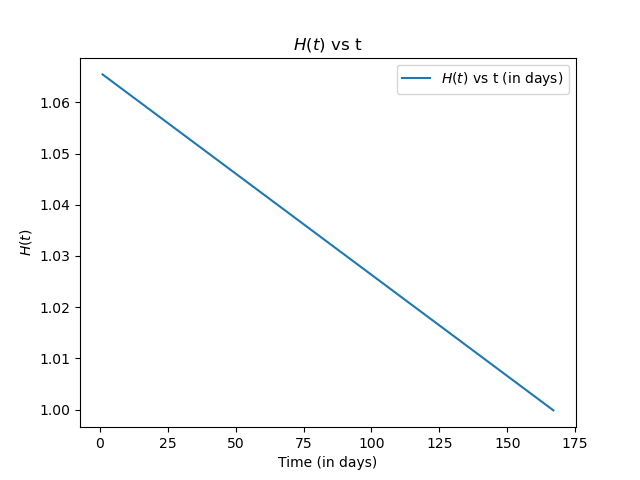
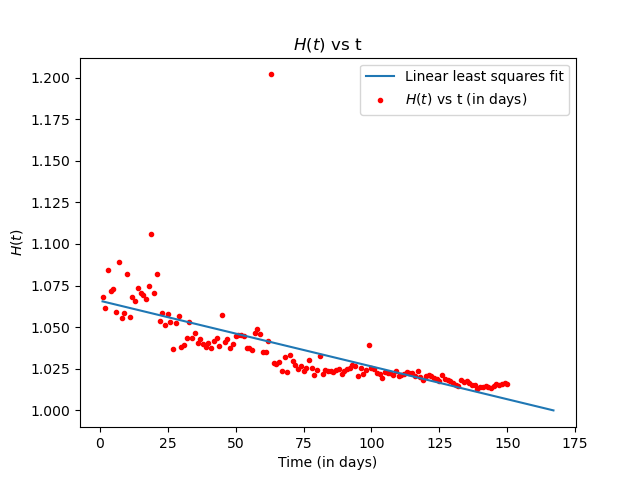
Updated task5 to plot both scatter plot and linear least fit line and updated covid.png accordingly

diff --git a/task5/task5.py b/task5/task5.py
@@ -25,10 +25,11 @@ slope, intercept, r_value, p_value, std_err = linregress(days, h)
 num_days = int(np.ceil(((1 - intercept)/slope)))
 print(num_days)
 
+plt.scatter(days,h,c = 'r',marker = '.',label = fr'$H(t)$ vs t (in days)')
 days = np.linspace(1,num_days,num_days)
 h = [(intercept + slope * d) for d in days]
 h = np.array(h,dtype='float64')
-plt.plot(days,h, label = fr'$H(t)$ vs t (in days)')
+plt.plot(days,h, label = fr'Linear least squares fit')
 plt.xlabel("Time (in days)")
 plt.ylabel(fr"$H(t)$")
 plt.title(fr'$H(t)$ vs t')
